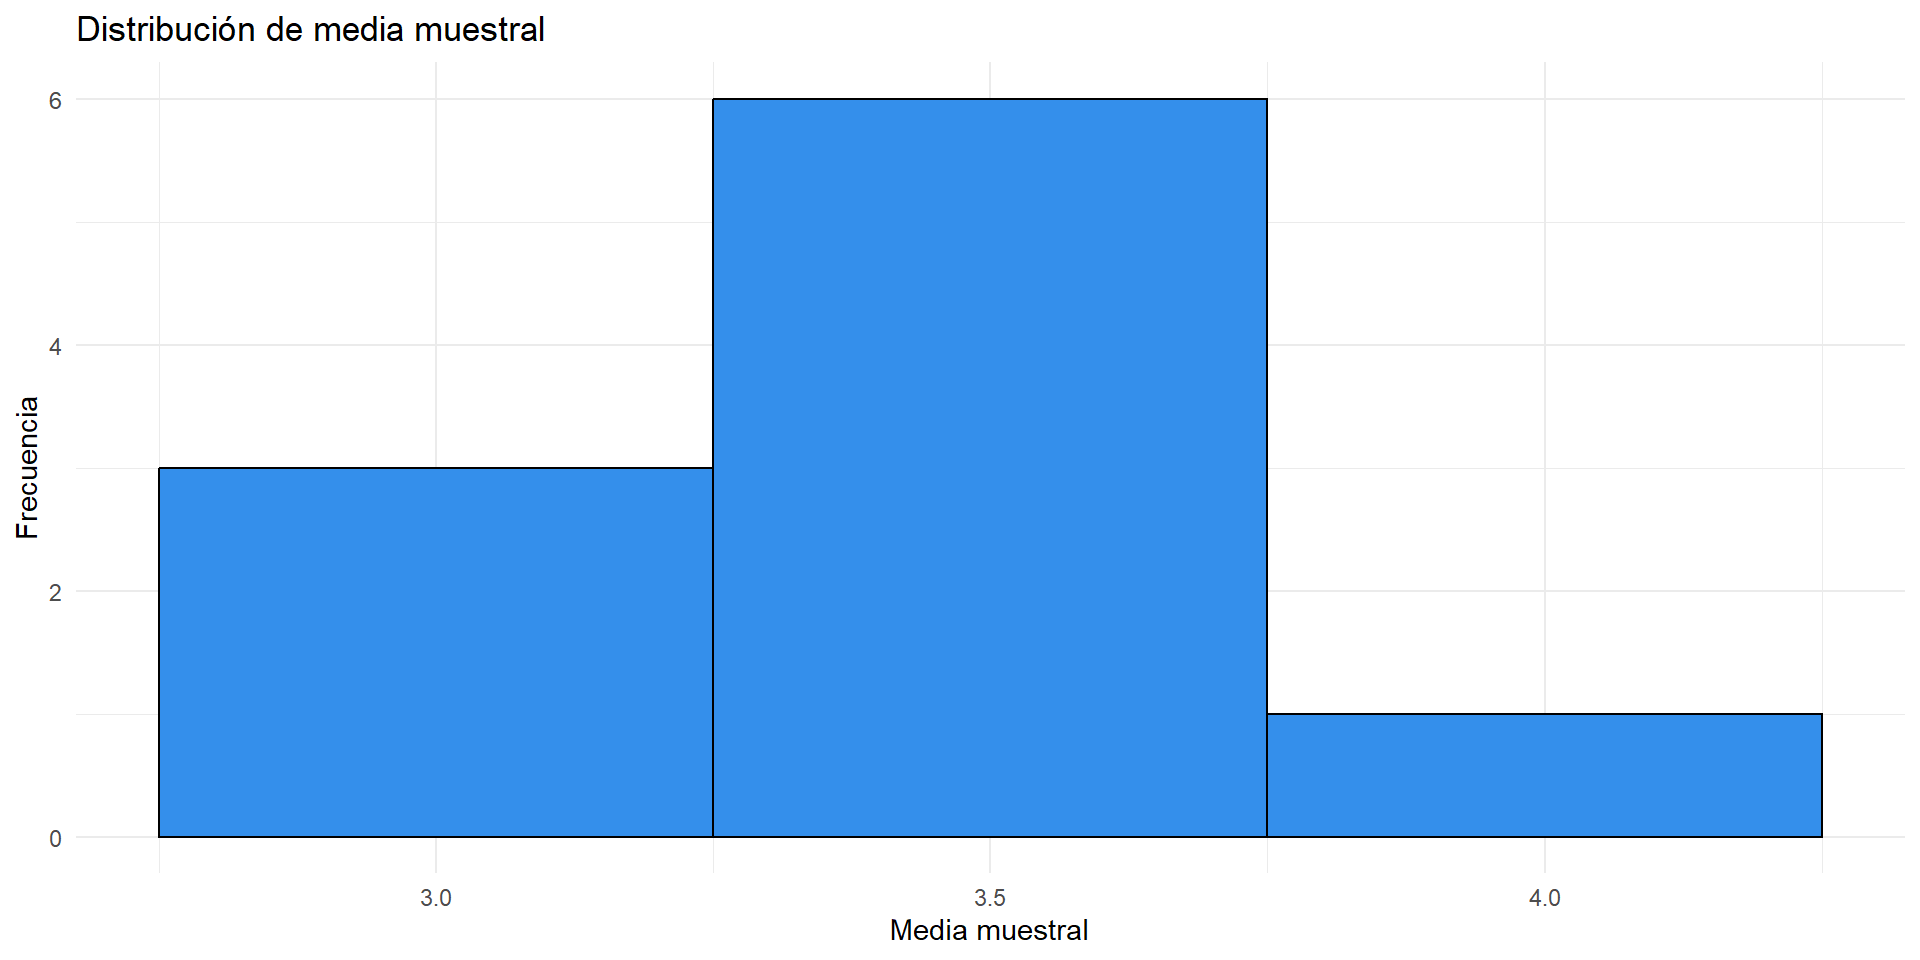
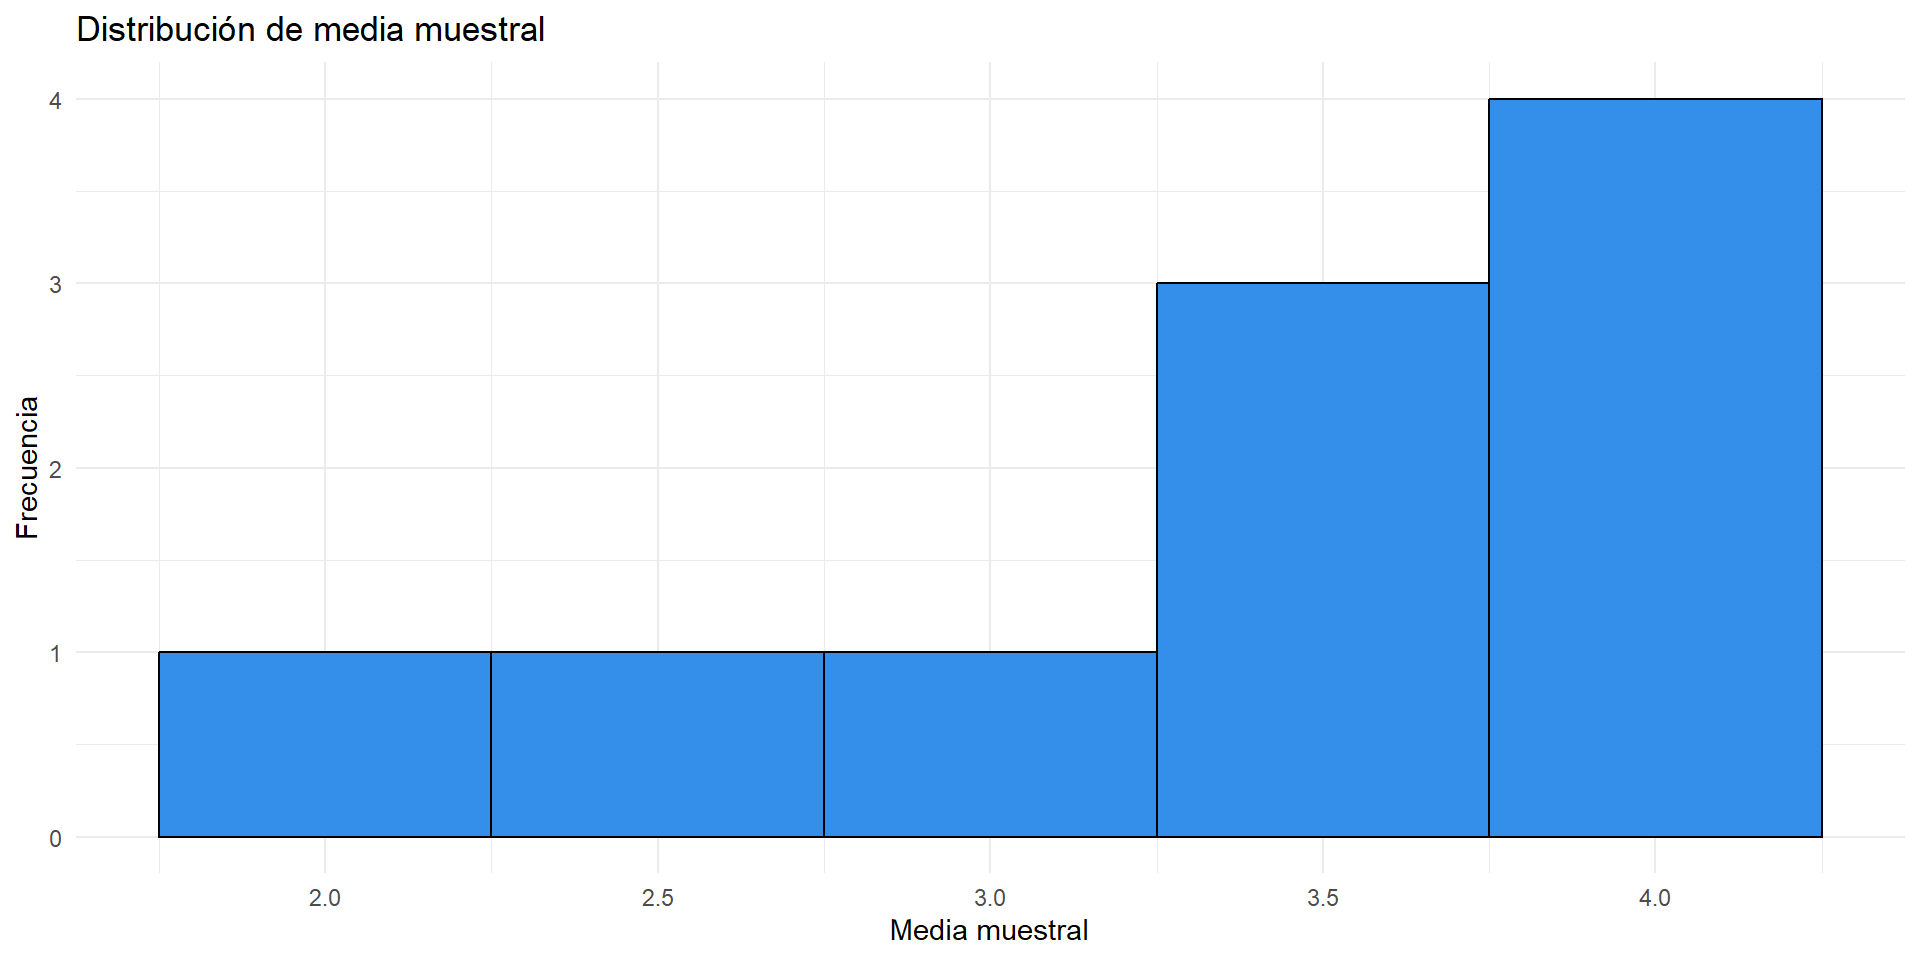
Arreglando el archivo html

diff --git a/clase4/prob_zscore.html b/clase4/prob_zscore.html
@@ -583,7 +583,7 @@ Probabilidad, Z-Score y Distribuciones Muestrales
 <div class="column" style="width:50%;">
 <div class="quarto-figure quarto-figure-center">
 <figure>
-<p><img data-src="images/zscore_ejemplo.png" style="width:90.0%;height:80.0%"></p>
+<p><img data-src="images/zscore_ejemplo.jpg" style="width:90.0%;height:80.0%"></p>
 </figure>
 </div>
 </div><div class="column" style="width:50%;">
@@ -684,13 +684,13 @@ Probabilidad, Z-Score y Distribuciones Muestrales
 <div class="column" style="width:50%;">
 <div class="quarto-figure quarto-figure-center">
 <figure>
-<p><img data-src="images/ejercicio_1.png" style="width:100.0%;height:100.0%"></p>
+<p><img data-src="images/ejercicio_1.jpg" style="width:100.0%;height:100.0%"></p>
 </figure>
 </div>
 </div><div class="column" style="width:50%;">
 <div class="quarto-figure quarto-figure-center">
 <figure>
-<p><img data-src="images/ejercicio_2.png" style="width:80.0%;height:80.0%"></p>
+<p><img data-src="images/ejercicio_2.jpg" style="width:80.0%;height:80.0%"></p>
 </figure>
 </div>
 </div>
@@ -747,7 +747,7 @@ Probabilidad, Z-Score y Distribuciones Muestrales
 </section>
 <section id="distribución-muestral-4" class="slide level2 text-red-brown">
 <h2>Distribución Muestral</h2>
-<p><img data-src="images/distr_muestral.png" class="absolute" style="top: 100px; left: 250px; width: 70%; height: 80%; "></p>
+<p><img data-src="images/distr_muestral.jpg" class="absolute" style="top: 100px; left: 250px; width: 70%; height: 80%; "></p>
 </section>
 <section id="distribución-muestral-5" class="slide level2 text-red-brown">
 <h2>Distribución Muestral</h2>
@@ -772,18 +772,18 @@ Probabilidad, Z-Score y Distribuciones Muestrales
 <span id="cb1-7"><a href="#cb1-7"></a></span>
 <span id="cb1-8"><a href="#cb1-8"></a>muestra_de_5</span></code><button title="Copy to Clipboard" class="code-copy-button"><i class="bi"></i></button></pre></div>
 <div class="cell-output cell-output-stdout">
-<pre><code>[1] 1 1 3 5 4</code></pre>
+<pre><code>[1] 1 1 4 1 4</code></pre>
 </div>
 <div class="sourceCode cell-code" id="cb3"><pre class="sourceCode numberSource r number-lines code-with-copy"><code class="sourceCode r"><span id="cb3-1"><a href="#cb3-1"></a><span class="do">## Y calculemos su media</span></span>
 <span id="cb3-2"><a href="#cb3-2"></a><span class="fu">mean</span>(muestra_de_5)</span></code><button title="Copy to Clipboard" class="code-copy-button"><i class="bi"></i></button></pre></div>
 <div class="cell-output cell-output-stdout">
-<pre><code>[1] 2.8</code></pre>
+<pre><code>[1] 2.2</code></pre>
 </div>
 <div class="sourceCode cell-code" id="cb5"><pre class="sourceCode numberSource r number-lines code-with-copy"><code class="sourceCode r"><span id="cb5-1"><a href="#cb5-1"></a><span class="do">## Otra manera de calcular la media</span></span>
 <span id="cb5-2"><a href="#cb5-2"></a><span class="do">## de una muestra de 5</span></span>
 <span id="cb5-3"><a href="#cb5-3"></a><span class="fu">sample</span>(dado, <span class="dv">5</span>, <span class="at">replace =</span> <span class="cn">TRUE</span>) <span class="sc">%&gt;%</span> <span class="fu">mean</span>()</span></code><button title="Copy to Clipboard" class="code-copy-button"><i class="bi"></i></button></pre></div>
 <div class="cell-output cell-output-stdout">
-<pre><code>[1] 3.4</code></pre>
+<pre><code>[1] 3</code></pre>
 </div>
 </div>
 </div><div class="column" style="width:50%;">
@@ -807,17 +807,17 @@ Probabilidad, Z-Score y Distribuciones Muestrales
 <span id="cb7-7"><a href="#cb7-7"></a></span>
 <span id="cb7-8"><a href="#cb7-8"></a>muestra_de_5</span></code><button title="Copy to Clipboard" class="code-copy-button"><i class="bi"></i></button></pre></div>
 <div class="cell-output cell-output-stdout">
-<pre><code>[1] 4 3 5 6 5</code></pre>
+<pre><code>[1] 4 3 5 3 4</code></pre>
 </div>
 <div class="sourceCode cell-code" id="cb9"><pre class="sourceCode numberSource r number-lines code-with-copy"><code class="sourceCode r"><span id="cb9-1"><a href="#cb9-1"></a><span class="do">## Y calculemos su media</span></span>
 <span id="cb9-2"><a href="#cb9-2"></a><span class="fu">mean</span>(muestra_de_5)</span></code><button title="Copy to Clipboard" class="code-copy-button"><i class="bi"></i></button></pre></div>
 <div class="cell-output cell-output-stdout">
-<pre><code>[1] 4.6</code></pre>
+<pre><code>[1] 3.8</code></pre>
 </div>
 <div class="sourceCode cell-code" id="cb11"><pre class="sourceCode numberSource r number-lines code-with-copy"><code class="sourceCode r"><span id="cb11-1"><a href="#cb11-1"></a><span class="do">## Otra manera de calcular la media de una muestra de 5</span></span>
 <span id="cb11-2"><a href="#cb11-2"></a><span class="fu">sample</span>(dado, <span class="dv">5</span>, <span class="at">replace =</span> <span class="cn">TRUE</span>) <span class="sc">%&gt;%</span> <span class="fu">mean</span>()</span></code><button title="Copy to Clipboard" class="code-copy-button"><i class="bi"></i></button></pre></div>
 <div class="cell-output cell-output-stdout">
-<pre><code>[1] 3</code></pre>
+<pre><code>[1] 4</code></pre>
 </div>
 </div>
 </section>
@@ -936,7 +936,7 @@ Probabilidad, Z-Score y Distribuciones Muestrales
 <div class="column" style="width:50%;">
 <div class="quarto-figure quarto-figure-center">
 <figure>
-<p><img data-src="images/distr_muestral.png" style="width:80.0%;height:80.0%"></p>
+<p><img data-src="images/distr_muestral.jpg" style="width:80.0%;height:80.0%"></p>
 </figure>
 </div>
 </div><div class="column" style="width:50%;">
@@ -982,7 +982,7 @@ Probabilidad, Z-Score y Distribuciones Muestrales
 </section>
 <section id="distribución-muestral-14" class="slide level2 text-red-brown">
 <h2>Distribución Muestral</h2>
-<p><img data-src="images/sampling_distr.png" class="absolute" style="top: 100px; left: 250px; width: 70%; height: 80%; "></p>
+<p><img data-src="images/sampling_distr.jpg" class="absolute" style="top: 100px; left: 250px; width: 60%; height: 70%; "></p>
 </section>
 <section id="error-estándar" class="slide level2 text-red-brown">
 <h2>Error Estándar</h2>
@@ -1123,7 +1123,7 @@ Probabilidad, Z-Score y Distribuciones Muestrales
 <h2>¿Cuál es la interpretación?</h2>
 <div class="columns">
 <div class="column" style="width:50%;">
-<p><img data-src="images/inter_conf.png" class="absolute" style="width: 60%; height: 75%; "></p>
+<p><img data-src="images/inter_conf.jpg" class="absolute" style="width: 60%; height: 75%; "></p>
 </div><div class="column" style="width:50%;">
 <p><img data-src="images/inter_conf_2.png" class="absolute" style="width: 50%; height: 40%; "></p>
 </div>
